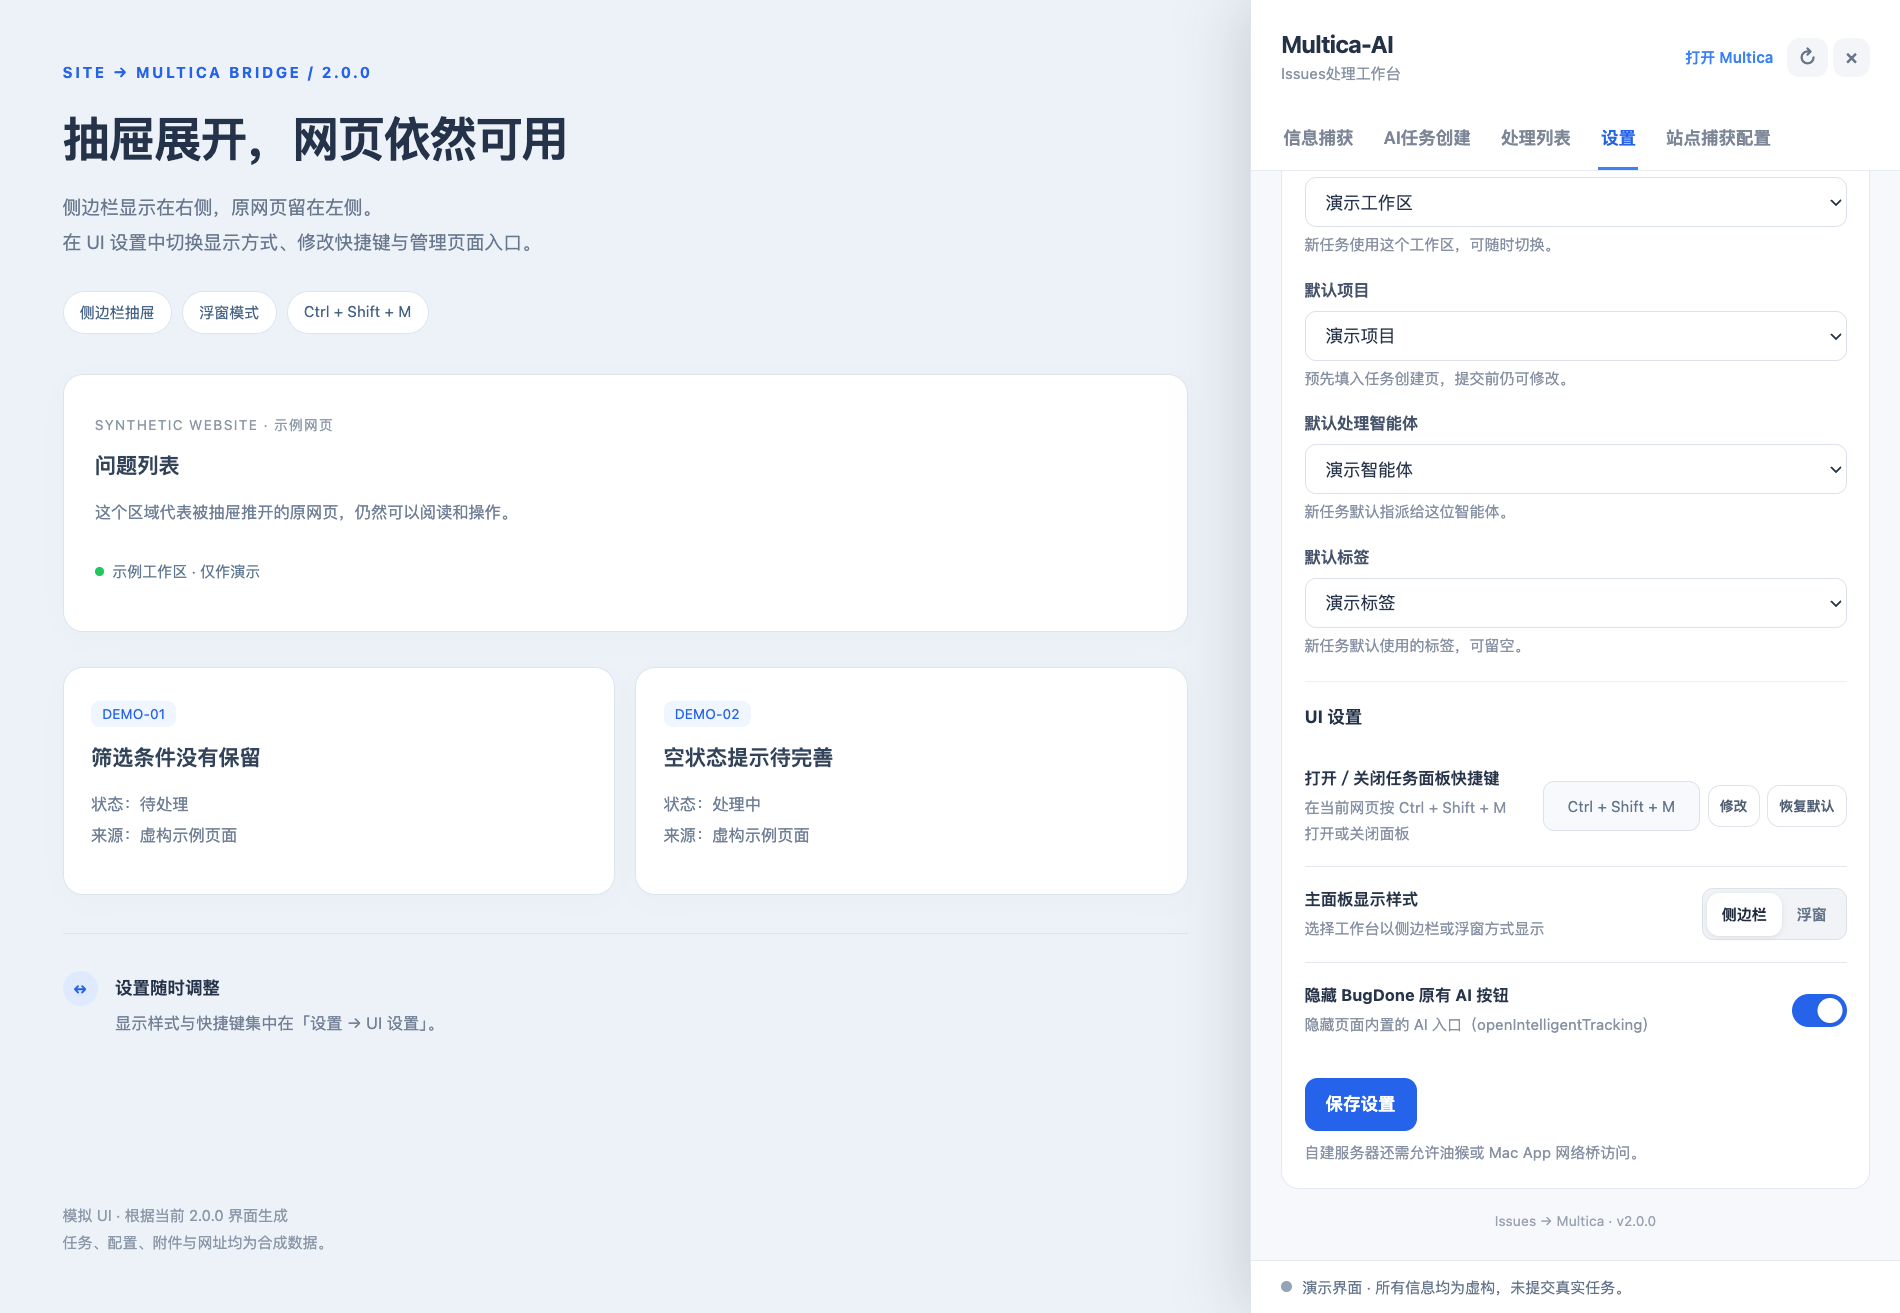
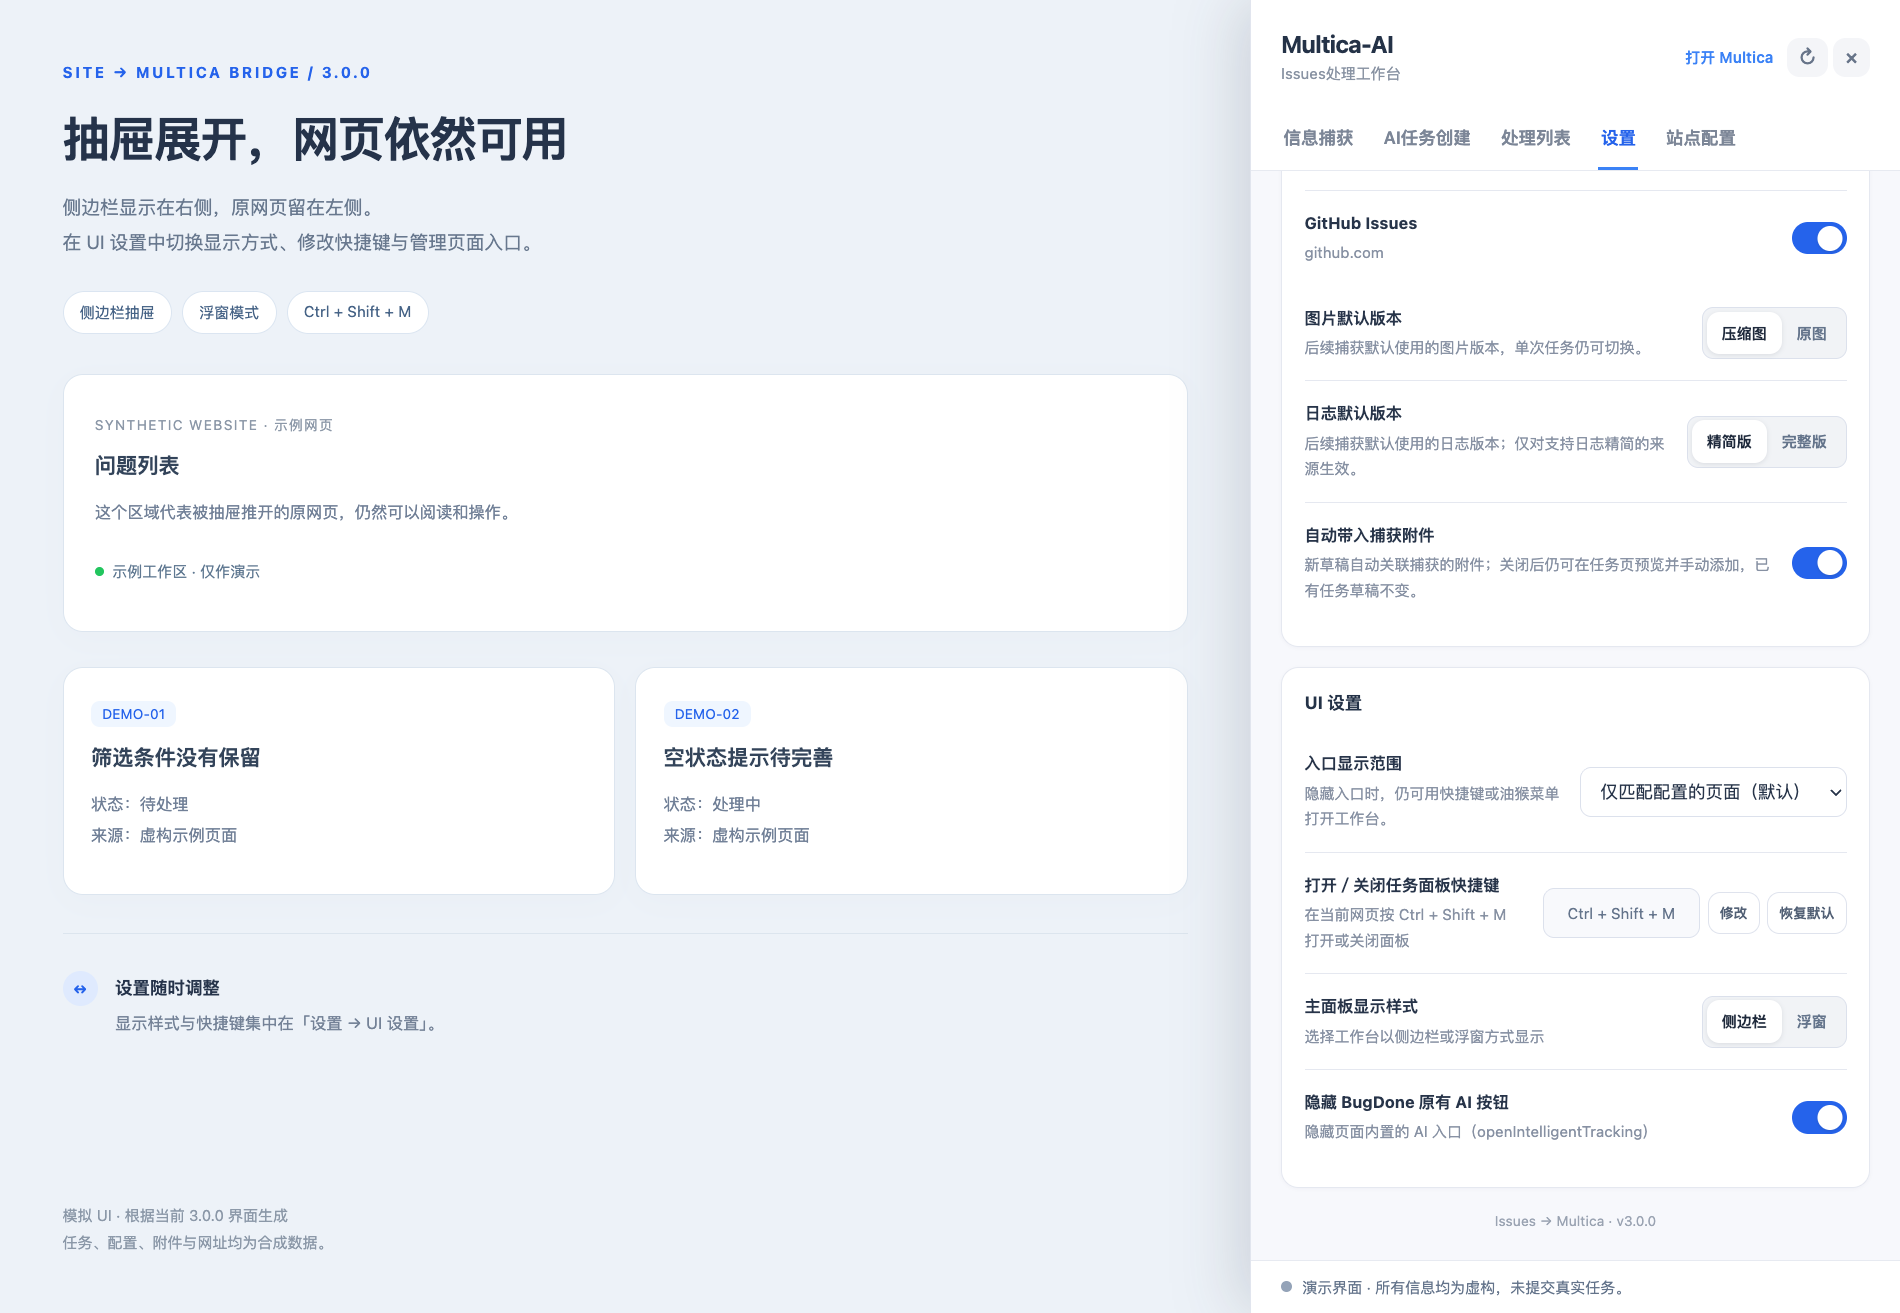
docs: 重新生成 3.0.0 合成界面预览

diff --git a/scripts/render_site_profile_preview.py b/scripts/render_site_profile_preview.py
@@ -1,4 +1,8 @@
-"""Render a privacy-safe preview of the development UI (requires Pillow)."""
+"""Legacy 2.x illustration generator (requires Pillow).
+
+For 3.x README previews use render_readme_previews.mjs and render profiles.html
+in Ego Lite. This legacy illustration does not represent the current UI.
+"""
 
 from pathlib import Path
 from PIL import Image, ImageDraw, ImageFont

diff --git a/README.md b/README.md
@@ -4,9 +4,9 @@
 
 ## 界面预览
 
-![五栏工作台与站点配置示意](./assets/site-profiles-preview.png)
+![3.0.0 五栏工作台与站点配置示意](./assets/site-profiles-preview.png)
 
-当前工作台包含「信息捕获」「AI任务创建」「处理列表」「设置」「站点配置」五栏。下方两张根据 2.0.0 用户脚本的 HTML/CSS 生成离线示例页，由 Ego Lite 渲染截图，分别展示通用任务创建、侧边栏抽屉与 UI 设置。任务、项目、智能体、附件和链接均为合成数据。
+当前工作台包含「信息捕获」「AI任务创建」「处理列表」「设置」「站点配置」五栏。三张预览根据 3.0.0 模块源码中的实际 HTML/CSS 生成离线示例页，由 Ego Lite 渲染截图，分别展示站点配置、通用任务创建、侧边栏抽屉与 UI 设置。任务、项目、智能体、附件和链接均为合成数据。
 
 ![任务创建界面示意](./assets/ui-preview.png)
 
@@ -140,3 +140,5 @@ npm run test:watch  # 独立验证真实监听重建；请勿与其他构建/测
 详细边界见 [3.0 架构说明](./doc/architecture-v3.md)，阶段与当前步骤见 [3.0 实施计划](./doc/plans/2026-10-28-v3-modular-source.md)。
 
 3.0.0 验证：150 项测试通过；`npm run check`、离线 `npm ci`、重复构建字节一致及真实 watch 重建测试通过。Ego Lite 已验证捕获暂停恢复、站点双向开关、附件和处理列表跨站流程，测试均使用合成数据。
+
+预览素材更新：运行 `node scripts/render_readme_previews.mjs /tmp/site-multica-readme-previews`，使用 Ego Lite 渲染 `profiles.html`、`task.html`、`sidebar.html`，替换 assets 中对应图片。只使用合成数据，不连接 API。
